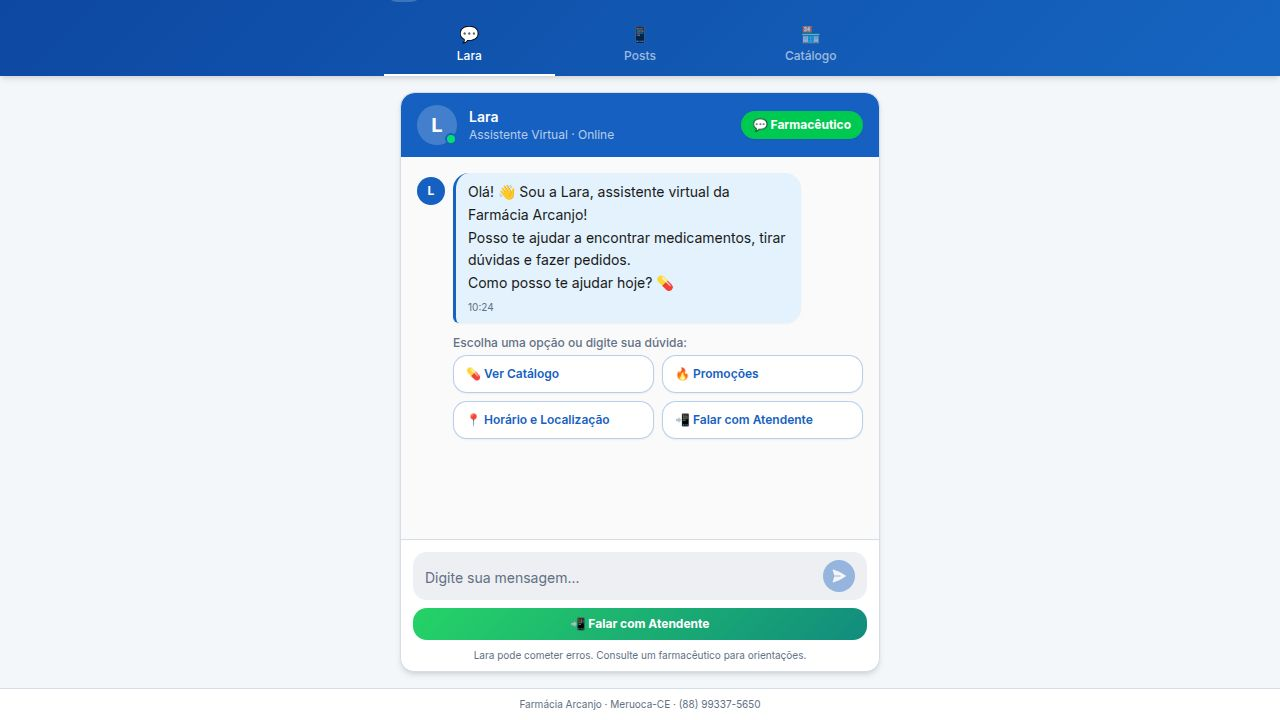
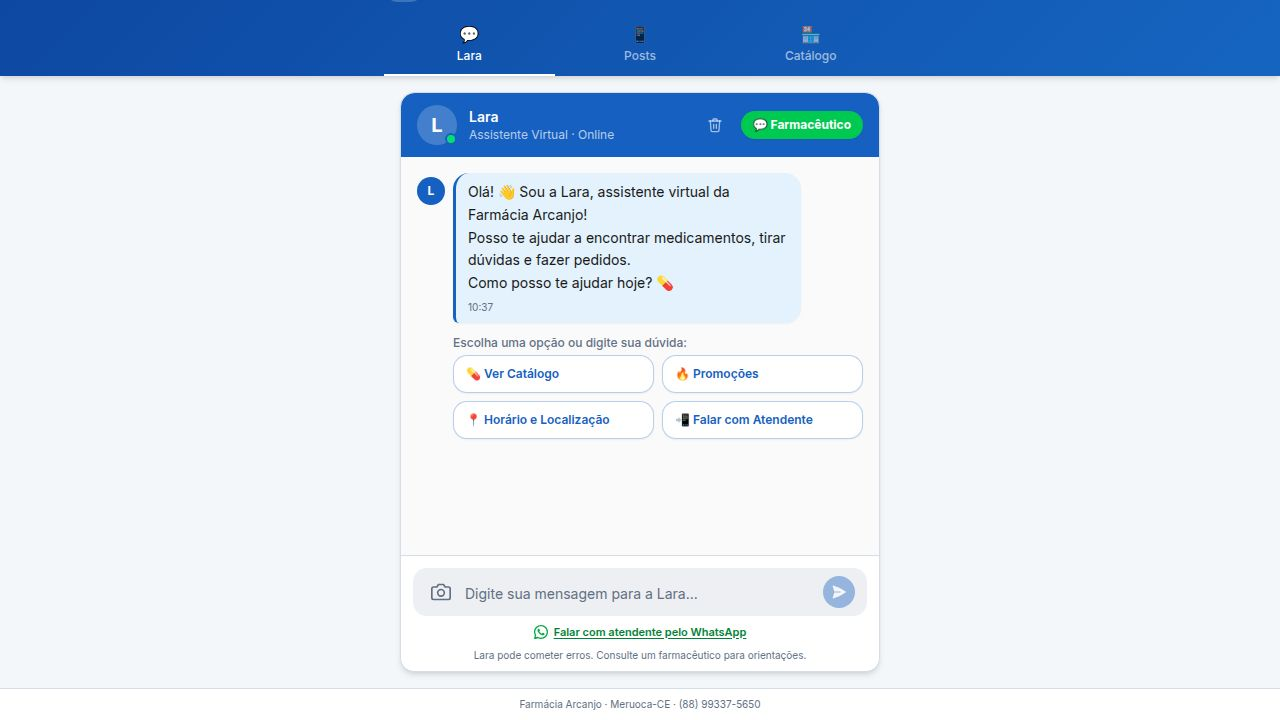
Add image upload capability to the chatbot for analyzing medical prescriptions
Increase express body size limits in the API server to 10mb for base64 image uploads. Modify the Lara chatbot route to accept `imagemBase64` and `textoComImagem` for multimodal input. Update the ChatbotLara component to handle image file selection, display pending images, and send image data along with text messages to the API.

Replit-Commit-Author: Agent
Replit-Commit-Session-Id: 37e9cfe3-3d34-4950-914d-41de2e922d6f
Replit-Commit-Checkpoint-Type: full_checkpoint
Replit-Commit-Event-Id: a420a50c-0e3c-461b-9a1f-db64ea9645f5
Replit-Commit-Screenshot-Url: https://storage.googleapis.com/screenshot-production-us-central1/f75137aa-2452-484e-be84-9d6937d64754/37e9cfe3-3d34-4950-914d-41de2e922d6f/WeNOAcF
Replit-Helium-Checkpoint-Created: true

Changed region(s): [[0.3125, 0.7639, 0.6875, 0.9167], [0.5312, 0.1528, 0.5625, 0.1833]]

diff --git a/artifacts/farmacia-arcanjo/src/pages/ChatbotLara.tsx b/artifacts/farmacia-arcanjo/src/pages/ChatbotLara.tsx
@@ -47,6 +47,7 @@ interface Message {
   timestamp: Date;
   produtosDetectados?: Produto[];
   mostrarBotaoCatalogo?: boolean;
+  imagemUrl?: string;
 }
 
 interface Props {
@@ -237,9 +238,11 @@ export default function ChatbotLara({ onNavigateTab }: Props) {
       return JSON.parse(localStorage.getItem("lara_carrinho_qtd") || "{}") as Record<number, number>;
     } catch { return {}; }
   });
+  const [imagemPendente, setImagemPendente] = useState<string | null>(null);
   const messagesEndRef = useRef<HTMLDivElement>(null);
   const lastMsgRef = useRef<HTMLDivElement>(null);
   const textareaRef = useRef<HTMLTextAreaElement>(null);
+  const fileInputRef = useRef<HTMLInputElement>(null);
   const sessaoId = useRef<string>(crypto.randomUUID());
   const primeiraMensagemRegistrada = useRef(false);
 
@@ -273,11 +276,15 @@ export default function ChatbotLara({ onNavigateTab }: Props) {
 
   const sendMessage = async (textoOverride?: string) => {
     const trimmed = (textoOverride ?? input).trim();
-    if (!trimmed || loading) return;
+    const imagemAtual = imagemPendente;
+    if (!trimmed && !imagemAtual) return;
+    if (loading) return;
 
-    const userMessage: Message = { id: crypto.randomUUID(), role: "user", content: trimmed, timestamp: new Date() };
+    const textoFinal = trimmed || (imagemAtual ? "📷 Foto da receita enviada" : "");
+    const userMessage: Message = { id: crypto.randomUUID(), role: "user", content: textoFinal, timestamp: new Date(), imagemUrl: imagemAtual ?? undefined };
     setMessages((prev) => [...prev, userMessage]);
     setInput("");
+    setImagemPendente(null);
     if (textareaRef.current) textareaRef.current.style.height = "auto";
 
     trackLaraMensagem();
@@ -286,14 +293,16 @@ export default function ChatbotLara({ onNavigateTab }: Props) {
       primeiraMensagemRegistrada.current = true;
       const ts = Date.now();
       const sessao = sessaoId.current;
-      salvarInteracaoLocal(sessao, trimmed, ts);
-      registrarInteracaoLara({ sessao, primeiraMensagem: trimmed, ts });
+      salvarInteracaoLocal(sessao, textoFinal, ts);
+      registrarInteracaoLara({ sessao, primeiraMensagem: textoFinal, ts });
     }
 
-    const respostaRapida = detectarResposta(trimmed);
-    if (respostaRapida) {
-      setTimeout(() => appendAssistantMessage(respostaRapida), 400);
-      return;
+    if (!imagemAtual) {
+      const respostaRapida = detectarResposta(trimmed);
+      if (respostaRapida) {
+        setTimeout(() => appendAssistantMessage(respostaRapida), 400);
+        return;
+      }
     }
 
     setLoading(true);
@@ -303,7 +312,7 @@ export default function ChatbotLara({ onNavigateTab }: Props) {
         .map((m) => ({ role: m.role, content: m.content }));
 
       let dadosAnvisa: AnvisaDados | null = null;
-      if (REGEX_INTENCAO_MEDICAMENTO.test(trimmed)) {
+      if (!imagemAtual && REGEX_INTENCAO_MEDICAMENTO.test(trimmed)) {
         const termo = extrairTermoMedicamento(trimmed);
         if (termo.length >= 3) {
           dadosAnvisa = await buscarAnvisa(termo);
@@ -317,6 +326,8 @@ export default function ChatbotLara({ onNavigateTab }: Props) {
           systemPrompt: SYSTEM_PROMPT,
           messages: conversationHistory,
           dadosAnvisa: dadosAnvisa?.encontrado ? dadosAnvisa : null,
+          imagemBase64: imagemAtual ?? undefined,
+          textoComImagem: imagemAtual ? (trimmed || "Por favor, leia esta receita médica e me diga os medicamentos, dosagens e orientações.") : undefined,
         }),
       });
 
@@ -330,6 +341,18 @@ export default function ChatbotLara({ onNavigateTab }: Props) {
       setLoading(false);
     }
   };
+
+  function handleFotoSelecionada(e: React.ChangeEvent<HTMLInputElement>) {
+    const file = e.target.files?.[0];
+    if (!file) return;
+    const reader = new FileReader();
+    reader.onload = (ev) => {
+      const result = ev.target?.result as string;
+      setImagemPendente(result);
+    };
+    reader.readAsDataURL(file);
+    e.target.value = "";
+  }
 
   function atualizarQuantidade(produto: Produto, delta: number) {
     if (delta > 0) trackProdutoAdicionado(produto.nome);
@@ -456,17 +479,27 @@ export default function ChatbotLara({ onNavigateTab }: Props) {
                 <div className="w-7 h-7 rounded-full bg-primary flex items-center justify-center text-primary-foreground text-xs font-bold mr-2 mt-1 shrink-0">L</div>
               )}
               <div
-                className={`max-w-[78%] px-3 py-2 rounded-2xl text-sm leading-relaxed shadow-xs ${
+                className={`max-w-[78%] rounded-2xl text-sm leading-relaxed shadow-xs overflow-hidden ${
                   msg.role === "user"
                     ? "bg-primary text-primary-foreground rounded-br-sm"
                     : "text-foreground rounded-bl-sm"
                 }`}
                 style={msg.role === "assistant" ? { background: "#e3f2fd", borderLeft: "3px solid #1565c0" } : {}}
               >
-                <p className="whitespace-pre-wrap">{msg.content}</p>
-                <p className={`text-[10px] mt-1 ${msg.role === "user" ? "text-primary-foreground/60 text-right" : "text-muted-foreground"}`}>
-                  {formatTime(msg.timestamp)}
-                </p>
+                {msg.imagemUrl && (
+                  <img
+                    src={msg.imagemUrl}
+                    alt="Receita enviada"
+                    className="w-full max-h-52 object-cover rounded-t-2xl"
+                    style={{ display: "block" }}
+                  />
+                )}
+                <div className="px-3 py-2">
+                  <p className="whitespace-pre-wrap">{msg.content}</p>
+                  <p className={`text-[10px] mt-1 ${msg.role === "user" ? "text-primary-foreground/60 text-right" : "text-muted-foreground"}`}>
+                    {formatTime(msg.timestamp)}
+                  </p>
+                </div>
               </div>
             </div>
 
@@ -633,19 +666,50 @@ export default function ChatbotLara({ onNavigateTab }: Props) {
 
         {/* Input de mensagem */}
         <div className="px-3 pt-3 pb-1">
+          {/* Preview da imagem selecionada */}
+          {imagemPendente && (
+            <div className="relative mb-2 inline-block">
+              <img src={imagemPendente} alt="Foto selecionada" className="h-20 w-auto rounded-xl border-2 border-primary object-cover shadow-sm" />
+              <button
+                onClick={() => setImagemPendente(null)}
+                className="absolute -top-2 -right-2 w-5 h-5 rounded-full bg-red-500 text-white text-xs flex items-center justify-center shadow font-bold"
+              >✕</button>
+            </div>
+          )}
           <div className="flex gap-2 items-end bg-muted rounded-xl px-3 py-2">
+            {/* Botão câmera */}
+            <input
+              ref={fileInputRef}
+              type="file"
+              accept="image/*"
+              capture="environment"
+              className="hidden"
+              onChange={handleFotoSelecionada}
+            />
+            <button
+              onClick={() => fileInputRef.current?.click()}
+              disabled={loading}
+              className="w-8 h-8 rounded-full flex items-center justify-center shrink-0 text-muted-foreground hover:text-primary hover:bg-primary/10 transition-all active:scale-95 disabled:opacity-40"
+              aria-label="Enviar foto de receita"
+              title="Enviar foto de receita"
+            >
+              <svg xmlns="http://www.w3.org/2000/svg" viewBox="0 0 24 24" fill="none" stroke="currentColor" strokeWidth="2" strokeLinecap="round" strokeLinejoin="round" className="w-5 h-5">
+                <path d="M23 19a2 2 0 01-2 2H3a2 2 0 01-2-2V8a2 2 0 012-2h4l2-3h6l2 3h4a2 2 0 012 2z"/>
+                <circle cx="12" cy="13" r="4"/>
+              </svg>
+            </button>
             <textarea
               ref={textareaRef}
               value={input}
               onChange={handleInput}
               onKeyDown={handleKeyDown}
-              placeholder="Digite sua mensagem para a Lara..."
+              placeholder={imagemPendente ? "Adicione uma mensagem (opcional)..." : "Digite sua mensagem para a Lara..."}
               rows={1}
               className="flex-1 bg-transparent resize-none outline-none text-sm text-foreground placeholder:text-muted-foreground max-h-[120px] py-1"
             />
             <button
               onClick={() => sendMessage()}
-              disabled={!input.trim() || loading}
+              disabled={(!input.trim() && !imagemPendente) || loading}
               className="w-8 h-8 rounded-full bg-primary text-primary-foreground flex items-center justify-center shrink-0 disabled:opacity-40 hover:bg-primary/90 transition-all active:scale-95"
               aria-label="Enviar mensagem para a Lara"
             >

diff --git a/artifacts/api-server/src/routes/lara.ts b/artifacts/api-server/src/routes/lara.ts
@@ -106,10 +106,12 @@ router.get("/anvisa/buscar", async (req, res) => {
 
 router.post("/lara", async (req, res) => {
   try {
-    const { messages, systemPrompt, dadosAnvisa } = req.body as {
+    const { messages, systemPrompt, dadosAnvisa, imagemBase64, textoComImagem } = req.body as {
       messages: ChatMessage[];
       systemPrompt: string;
       dadosAnvisa?: AnvisaResultado | null;
+      imagemBase64?: string;
+      textoComImagem?: string;
     };
 
     if (!Array.isArray(messages) || typeof systemPrompt !== "string") {
@@ -139,10 +141,24 @@ Fonte: ANVISA
 ---`;
     }
 
-    const fullMessages: ChatMessage[] = [
+    type MultimodalContent = Array<{ type: "text"; text: string } | { type: "image_url"; image_url: { url: string; detail: "auto" } }>;
+    type ApiMessage = { role: "system" | "user" | "assistant"; content: string | MultimodalContent };
+
+    const apiMessages: ApiMessage[] = [
       { role: "system", content: systemFinal },
-      ...messages,
+      ...messages.slice(0, -1).map((m) => ({ role: m.role, content: m.content })),
     ];
+
+    const lastMsg = messages[messages.length - 1];
+    if (imagemBase64 && lastMsg) {
+      const multiContent: MultimodalContent = [
+        { type: "text", text: textoComImagem || lastMsg.content || "Leia esta receita médica." },
+        { type: "image_url", image_url: { url: imagemBase64, detail: "auto" } },
+      ];
+      apiMessages.push({ role: "user", content: multiContent });
+    } else if (lastMsg) {
+      apiMessages.push({ role: lastMsg.role, content: lastMsg.content });
+    }
 
     const response = await fetch(`${baseUrl}/chat/completions`, {
       method: "POST",
@@ -152,7 +168,7 @@ Fonte: ANVISA
       },
       body: JSON.stringify({
         model: "gpt-5.4",
-        messages: fullMessages,
+        messages: apiMessages,
         max_completion_tokens: 1024,
       }),
     });

diff --git a/artifacts/api-server/src/app.ts b/artifacts/api-server/src/app.ts
@@ -26,8 +26,8 @@ app.use(
   }),
 );
 app.use(cors());
-app.use(express.json());
-app.use(express.urlencoded({ extended: true }));
+app.use(express.json({ limit: "10mb" }));
+app.use(express.urlencoded({ extended: true, limit: "10mb" }));
 
 app.use("/api", router);
 